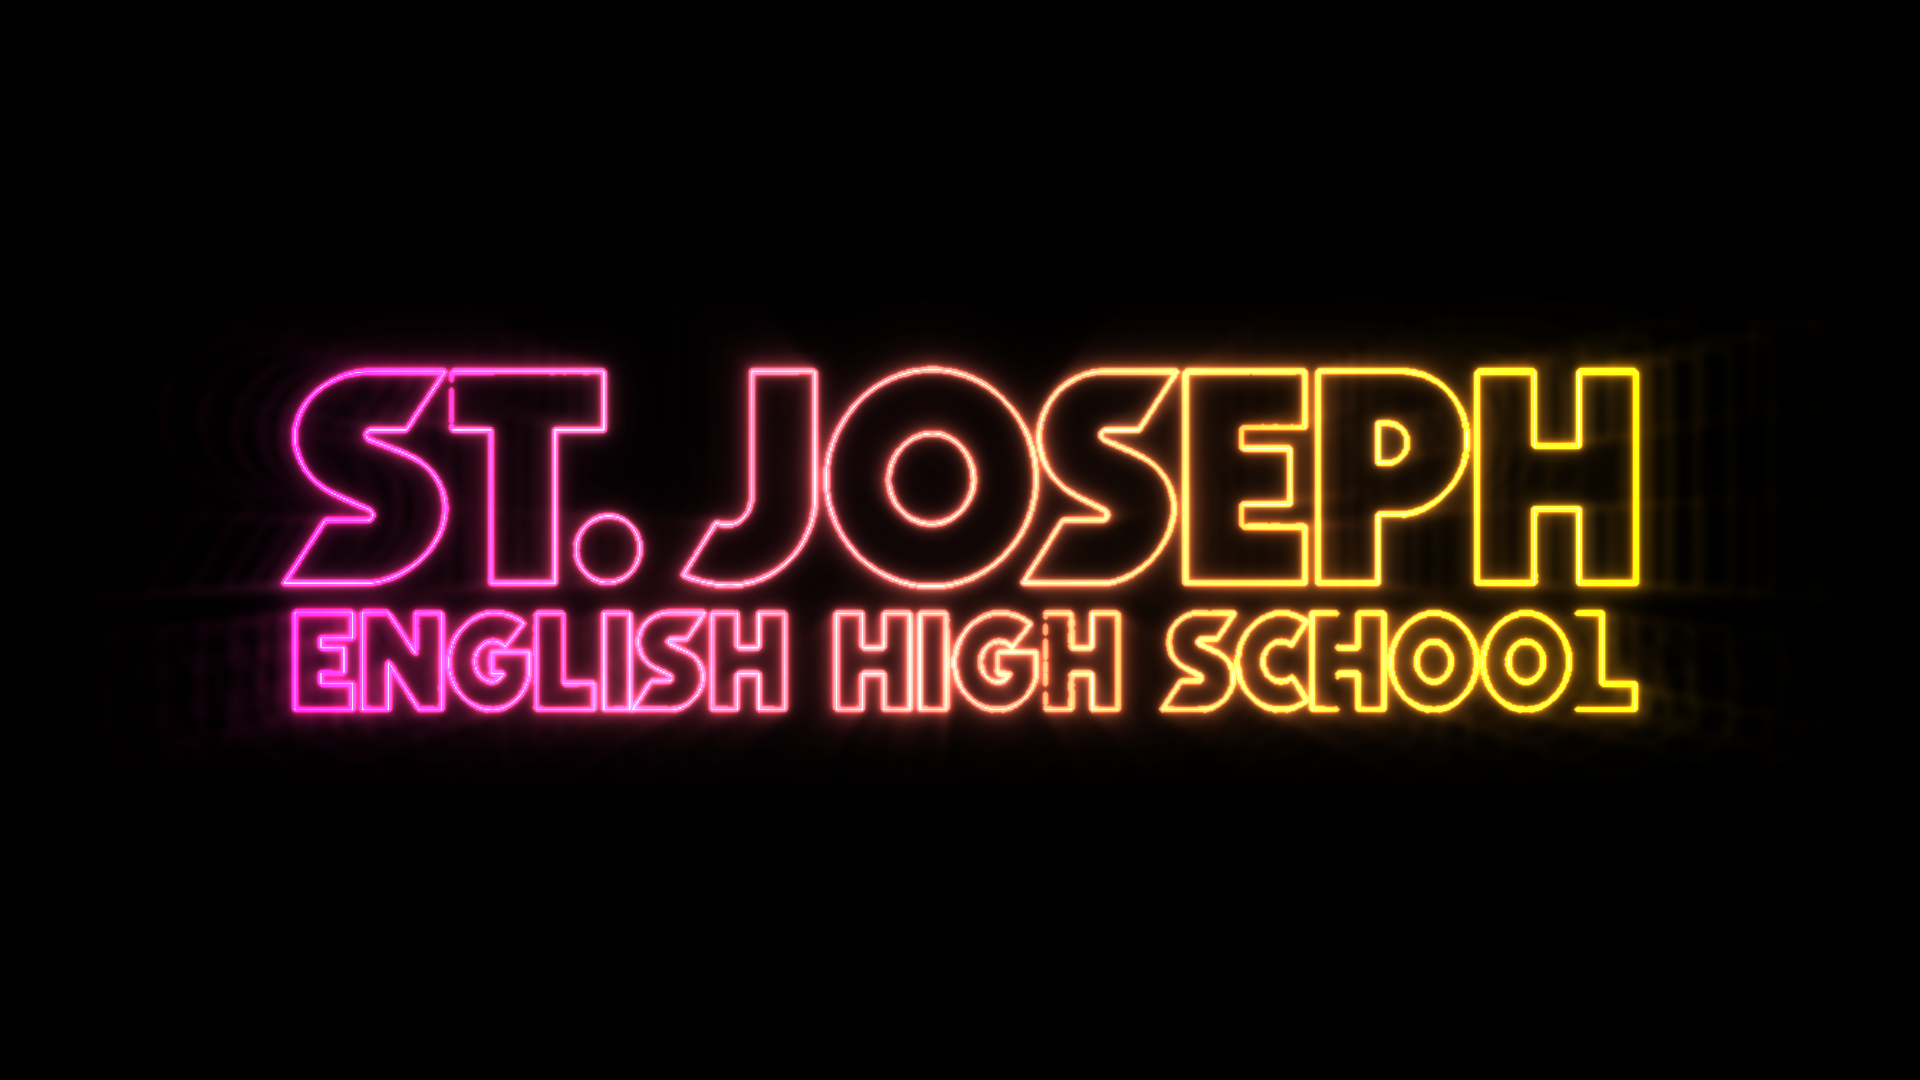
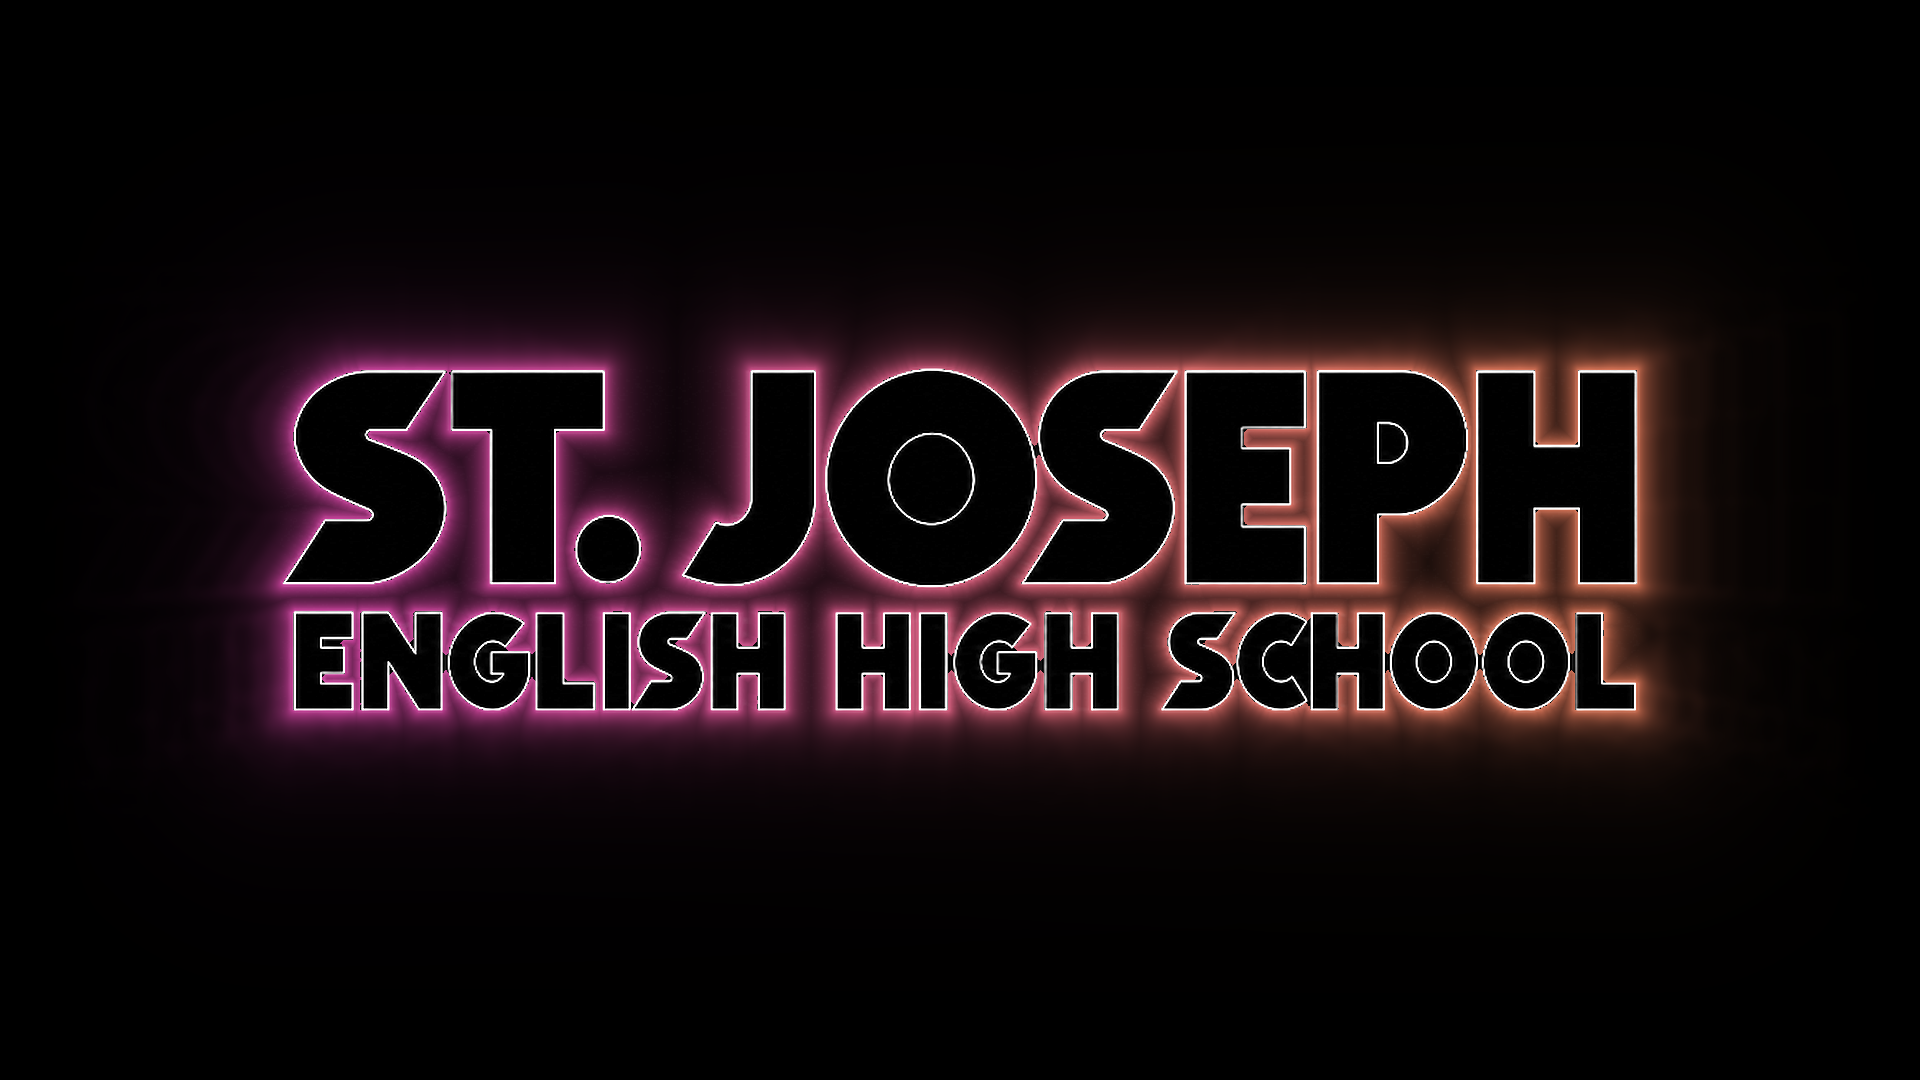
Implement cinematic slow reveal for St. Joseph text with exact GTA VI glow science and zero bleed-through

Changed region(s): [[0.125, 0.275, 0.9062, 0.7028]]

diff --git a/gta6_engine.js b/gta6_engine.js
@@ -208,26 +208,44 @@ class Gta6AnimationEngine {
   }
 
   /**
-   * Exact Glow Science Lifecycle function G(t)
-   * - 0.00s <= t < 0.30s: 0.000 (Pure Black Void)
-   * - 0.30s <= t < 1.40s: Glow Growth (sinusoidal ramp 0 -> 1)
-   * - 1.40s <= t < 2.70s: 1.000 (Peak Glow Plateau)
-   * - 2.70s <= t < 4.10s: Glow-Out Phase (cosine S-curve decay 1 -> 0)
-   * - t >= 4.10s: 0.000 (Stop Process: Complete Glow Termination)
+   * Cinematic Glow Science Lifecycle function G(t)
+   * St. Joseph: Cinematic Slow Reveal across 0.30s - 2.50s (2.2s duration)
+   * VI: Original Trailer Timing across 0.30s - 1.65s
    */
   getGlowIntensity(t) {
+    const isStJoseph = this.activeTarget === 'st_joseph';
+
     if (t < 0.30) {
       return 0.0;
-    } else if (t < 1.40) {
-      const p = (t - 0.30) / (1.40 - 0.30);
-      return Math.sin(p * Math.PI * 0.5);
-    } else if (t < 2.70) {
-      return 1.0;
-    } else if (t < 4.10) {
-      const p = (t - 2.70) / (4.10 - 2.70);
-      return 0.5 * (1 + Math.cos(p * Math.PI));
+    }
+
+    if (isStJoseph) {
+      // Cinematic slow glow build-up across 0.30s -> 2.50s
+      if (t < 2.50) {
+        const p = (t - 0.30) / (2.50 - 0.30);
+        const pEase = p * p * (3.0 - 2.0 * p);
+        return 0.65 + 0.35 * pEase;
+      } else if (t < 3.30) {
+        return 1.0;
+      } else if (t < 4.70) {
+        const p = (t - 3.30) / (4.70 - 3.30);
+        return 0.5 * (1 + Math.cos(p * Math.PI));
+      } else {
+        return 0.0;
+      }
     } else {
-      return 0.0;
+      // Original VI trailer curve
+      if (t < 1.40) {
+        const p = (t - 0.30) / (1.40 - 0.30);
+        return Math.sin(p * Math.PI * 0.5);
+      } else if (t < 2.70) {
+        return 1.0;
+      } else if (t < 4.10) {
+        const p = (t - 2.70) / (4.10 - 2.70);
+        return 0.5 * (1 + Math.cos(p * Math.PI));
+      } else {
+        return 0.0;
+      }
     }
   }
 
@@ -255,51 +273,59 @@ class Gta6AnimationEngine {
     const neonImg = isStJoseph ? this.assets.stJosephNeon : this.assets.neonGlow;
     const baseImg = isStJoseph ? this.assets.stJosephBase : this.assets.viBase;
 
-    // Vertical shadow wipe parameters:
-    // St. Joseph text spans y: 363 to 717
-    // VI numeral spans y: 340 to 870
-    const wipeYStartMin = isStJoseph ? 330 : 340;
-    const wipeYStartMax = isStJoseph ? 720 : 870;
-    const wipeGradHeight = isStJoseph ? 85 : 110;
+    // Vertical sweep parameters:
+    // St. Joseph text: y: 368 to 710, glow reaches 300 to 780
+    // VI numeral: y: 340 to 870
+    const yStartMin = isStJoseph ? 305 : 340;
+    const yDistance = isStJoseph ? 495 : 530;
+    const wipeGradHeight = isStJoseph ? 130 : 110;
+    const revealEndTime = isStJoseph ? 2.50 : 1.65; // Slow cinematic 2.2s reveal for St. Joseph!
 
-    // PHASE 2 & 3: GLOW SCIENCE (0.30s <= t < 4.10s)
+    // PHASE 2 & 3: GLOW SCIENCE
     const glowAlpha = this.getGlowIntensity(t);
 
     if (glowAlpha > 0.001) {
       ctx.save();
       ctx.globalAlpha = glowAlpha;
-
-      // Draw the glowing neon outline with volumetric god rays
+      // Draw the neon outline with volumetric god rays
       ctx.drawImage(neonImg, 0, 0, w, h);
+      ctx.restore();
 
-      // Downward shadow mask (0.30s <= t < 1.40s)
-      if (t < 1.40) {
-        const p = Math.max(0, Math.min(1.0, (t - 0.30) / (1.40 - 0.30)));
-        const yStart = wipeYStartMin + p * (wipeYStartMax - wipeYStartMin);
+      // Downward shadow mask (0.30s <= t < revealEndTime)
+      // Runs with globalAlpha = 1.0 so unrevealed underlying font is 100% pitch black
+      if (t < revealEndTime) {
+        ctx.save();
+        ctx.globalAlpha = 1.0;
+        const p = Math.max(0, Math.min(1.0, (t - 0.30) / (revealEndTime - 0.30)));
+        // Smooth cinematic ease (smoothstep)
+        const pEase = p * p * (3.0 - 2.0 * p);
+        const yStart = yStartMin + pEase * yDistance;
         const yEnd = yStart + wipeGradHeight;
 
-        // Soft shadow gradient cutoff into darkness
+        // Luxurious deep shadow gradient cutoff
         const shadowGrad = ctx.createLinearGradient(0, yStart, 0, yEnd);
-        shadowGrad.addColorStop(0, 'rgba(0, 0, 0, 0)');
-        shadowGrad.addColorStop(0.35, 'rgba(0, 0, 0, 0.45)');
-        shadowGrad.addColorStop(0.75, 'rgba(0, 0, 0, 0.92)');
-        shadowGrad.addColorStop(1, 'rgba(0, 0, 0, 1)');
+        shadowGrad.addColorStop(0.00, 'rgba(0, 0, 0, 0)');
+        shadowGrad.addColorStop(0.25, 'rgba(0, 0, 0, 0.20)');
+        shadowGrad.addColorStop(0.50, 'rgba(0, 0, 0, 0.55)');
+        shadowGrad.addColorStop(0.75, 'rgba(0, 0, 0, 0.88)');
+        shadowGrad.addColorStop(1.00, 'rgba(0, 0, 0, 1.0)');
 
         ctx.fillStyle = shadowGrad;
         ctx.fillRect(0, yStart, w, yEnd - yStart);
 
-        // Solid pitch black below yEnd
+        // 100% Solid Pitch black below yEnd (Zero bleed-through)
         if (yEnd < h) {
           ctx.fillStyle = '#000000';
           ctx.fillRect(0, yEnd, w, h - yEnd);
         }
+        ctx.restore();
       }
-      ctx.restore();
     }
 
-    // PHASE 3 & 4 & 5: Interior Sunset Gradient & Tropical Palms (t >= 1.70s)
-    if (t >= 1.70) {
-      const p = Math.min(1.0, (t - 1.70) / 1.50); // fades in from 1.70s to 3.20s
+    // PHASE 3 & 4 & 5: Permanent clean base layer (thin white line for St. Joseph, sunset palms for VI)
+    const baseFadeStart = isStJoseph ? 2.30 : 1.70;
+    if (t >= baseFadeStart) {
+      const p = Math.min(1.0, (t - baseFadeStart) / 1.50);
       const baseAlpha = p * p * (3 - 2 * p); // smoothstep
       ctx.save();
       ctx.globalAlpha = baseAlpha;

diff --git a/index.html b/index.html
@@ -276,6 +276,21 @@
       engine.togglePlay();
     });
 
+    // Click canvas container to Play/Pause
+    canvasContainer.style.cursor = 'pointer';
+    canvasContainer.addEventListener('click', () => {
+      engine.togglePlay();
+    });
+
+    // Auto-start on first user interaction anywhere if at 0s
+    window.addEventListener('click', (e) => {
+      // Ignore clicks on buttons/inputs/controls
+      if (e.target.closest('button, input, .target-switcher, .view-mode-tabs')) return;
+      if (!engine.isPlaying && engine.currentTime === 0) {
+        engine.play();
+      }
+    }, { once: true });
+
     // Scrubber
     let isScrubbing = false;
     scrubber.addEventListener('input', (e) => {
@@ -369,10 +384,17 @@
 
     // Milestone active tracker
     function updateActiveMilestone(t) {
-      const items = [
+      const isStJoseph = engine.activeTarget === 'st_joseph';
+      const items = isStJoseph ? [
         { id: 'm0', start: 0.0, end: 0.30 },
-        { id: 'm1', start: 0.30, end: 1.40 },
-        { id: 'm2', start: 1.40, end: 2.70 },
+        { id: 'm1', start: 0.30, end: 2.50 },
+        { id: 'm2', start: 2.50, end: 3.30 },
+        { id: 'm3', start: 3.30, end: 4.70 },
+        { id: 'm4', start: 4.70, end: 9.10 }
+      ] : [
+        { id: 'm0', start: 0.0, end: 0.30 },
+        { id: 'm1', start: 0.30, end: 1.65 },
+        { id: 'm2', start: 1.65, end: 2.70 },
         { id: 'm3', start: 2.70, end: 4.10 },
         { id: 'm4', start: 4.10, end: 9.10 }
       ];
